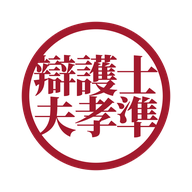
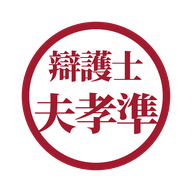
파비콘 인장: '辯護士'를 작게(22), 이름 '夫孝準'을 크게(29) — 줄별 크기 조절
Claude-Session: https://claude.ai/code/session_011G5USozANYLRdpZC2v2mTN

Changed region(s): [[0.1562, 0.25, 0.8438, 0.7188]]

diff --git a/work/favicon_gen.py b/work/favicon_gen.py
@@ -36,16 +36,18 @@ FONT_INDEX = 1  # Noto Serif CJK KR Black
 CRIMSON = "#a21a2d"   # 홈페이지 --seal 값(고려대 크림슨을 화면용으로 올린 값)
 PAPER = "#ffffff"
 
-ROWS = ["辯護士", "夫孝準"]  # 원본 인장과 같은 배열: 윗줄 변호사, 아랫줄 부효준(왼쪽→오른쪽). 준은 '기준 준(準)' — 2026. 10. 21. 본인 정정
+# 원본 인장과 같은 배열: 윗줄 변호사, 아랫줄 부효준(왼쪽→오른쪽). 준은 '기준 준(準)' — 2026. 10. 21. 본인 정정
+# (글자, 한 칸(em) 크기, 가로 간격, 원 중심 기준 세로 위치) — viewBox 0 0 100 100
+# 2026. 10. 21. '변호사'를 작게, 이름을 크게(본인 요청): 윗줄 22, 아랫줄 29. 夫·準의 바깥 획이 테두리 안쪽에 살짝 닿는다(인장처럼).
+ROW_SPECS = [
+    ("辯護士", 22.0, 21.0, -20.0),
+    ("夫孝準", 29.0, 27.6, 11.5),
+]
 
 # ---- 모양 조절값 (viewBox 0 0 100 100 기준) ----
 VIEW = 100.0
 RING_R = 47.0        # 테두리 원의 중심선 반지름
 RING_W = 5.0         # 테두리 두께
-CELL = 29.0          # 글자 한 칸(em) 크기
-COL_PITCH = 27.6     # 가로 글자 간격(칸보다 조금 좁게 → 인장처럼 빽빽하게)
-ROW_PITCH = 27.6     # 세로 줄 간격
-SHIFT_Y = 0.0        # 전체 글자 블록 상하 이동(양수 = 아래)
 
 
 def load_font():
@@ -68,18 +70,16 @@ def build_svg(font):
     cmap = font.getBestCmap()
     upm = font["head"].unitsPerEm
     asc, desc = 880, -120  # 한중일 글꼴의 표의문자 em 상자
-    scale = CELL / upm
 
     paths = []
-    n_rows = len(ROWS)
-    for ri, row in enumerate(ROWS):
+    for row, cell, col_pitch, dy in ROW_SPECS:
+        scale = cell / upm
         n = len(row)
-        # 줄의 세로 중심: 전체 블록을 원 중심에 맞춤
-        row_center_y = VIEW / 2 + (ri - (n_rows - 1) / 2) * ROW_PITCH + SHIFT_Y
+        row_center_y = VIEW / 2 + dy
         for ci, ch in enumerate(row):
             d, bounds, adv = glyph_path(font, ch, glyph_set, cmap)
             # 칸의 가로 중심
-            cell_center_x = VIEW / 2 + (ci - (n - 1) / 2) * COL_PITCH
+            cell_center_x = VIEW / 2 + (ci - (n - 1) / 2) * col_pitch
             # em 상자의 중심(글꼴 단위) → 화면 좌표
             em_cx = adv / 2
             em_cy = (asc + desc) / 2
